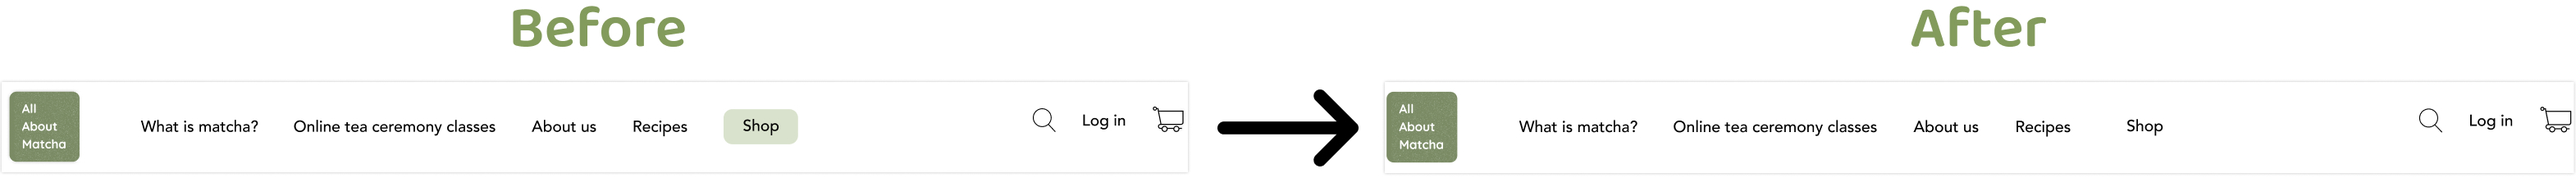
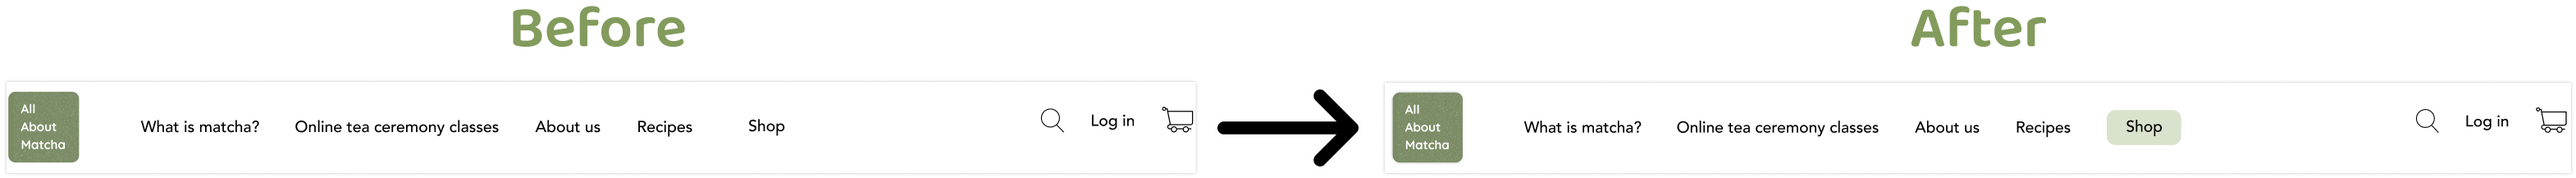
Grammar correction & new page
– Added a new page for new case study
– Corrected grammar mistakes

diff --git a/all-about-matcha.html b/all-about-matcha.html
@@ -70,7 +70,7 @@
 
             <div>
                 <li>Design a hi-fidelity, responsive e-commerce website with virtual tea ceremony class bookings.</li>
-                <li>Design a logo and establish brand identify for the website.</li>
+                <li>Design a logo and establish brand identity for the website.</li>
             </div>
 
             <div class="objectives">
@@ -86,7 +86,7 @@
             </div>
 
             <p>Challenges</p>
-            <li>Majority of people have no idea what to bring to Japanese Tea Ceremony, or what it's all about.</li>
+            <li>The majority of people have no idea what to bring to a Japanese Tea Ceremony, or what it's all about.</li>
             <li>Japanese Tea Ceremony sounds too intimidating and has strict manners.</li>
 
 
@@ -140,10 +140,10 @@
         seek out Japanese Tea Ceremony as a cultural experience when they were in Japan or if they had the chance.
         However, a few participants (those who have lived in Japan before) said they would like to learn about and
         get better at it.
-        I decided to target those who would seek it out when they get the chance, since they represent the majority
+        I decided to target those who would seek it out when given the chance, since they represent the majority
         of potential users in the US.<br><br>
 
-        Here are the major needs/pain points I got from the user interviews.
+        Here are the major needs/pain points I got from the user interviews:
 
         <img class="mirror-content2" src="matcha-img/interview summary.jpg" alt="Interview summary">
 
@@ -169,7 +169,7 @@
 
         <p>Persona</p>
 
-        To empathize with the users and remember what their needs are, I created a persona that
+        To empathize with the users and remember their needs, I created a persona that
         represents a core user. At first, I was thinking that my target users are people who appreciate
         attending Japanese Tea Ceremony and drinking matcha as it is. However, I learned through my research
         that liking matcha doesn’t mean they would attend a class to get better at making matcha, but to learn
@@ -182,10 +182,9 @@
 
         After defining my persona, I created a user flow to visualize the paths that users would take to book a
         tea ceremony class.
-        I was able to empathize with the users and also define what I should include and emphasize on the
+        I was able to empathize with the users and define what to include and emphasize on the
         website.
-        That way, I can understand how I can make it so that users will be able to complete a task without any
-        frustrations.
+        With this understanding, I can design the website with specific user tasks in mind.
 
         <img class="mirror-content2" src="matcha-img/User flow.jpg" alt="User Flow">
 
@@ -202,13 +201,22 @@
 
     <div class="content mirror-body">
 
+        <p>Sketches</p>
+        I started by sketching ideas of what I wanted to include. I made sure to include all the important
+        information about matcha and Japanese Tea ceremony. From my research, I learned that
+        people tend to associate matcha with only desserts or drinks, so I included other information that users
+        can read to learn about other aspects of matcha.
+        I also focused on having two things on the website: matcha e-commerce and booking online Japanese Tea Ceremony
+        classes, since this is what the business does.
+
+
+        <img class="mirror-content2" src="matcha-img/Sketches.jpg" alt="Sketches three versions">
+
         <p>Mid-Fidelity Wireframes</p>
-        I started making low-fidelity wireframes with a lot of ideas of what I wanted to include. I
-        focused on having two things on the website: matcha e-commerce and booking online Japanese Tea Ceremony
-        classes, since this is what the business does. I learned through my research that people don’t always
-        associate matcha as a drink, and they don’t know much about Japanese Tea Ceremony. I
-        wanted to also include information about matcha and Japanese Tea Ceremony so that the users can learn
-        about them.
+        I started to work on wireframes based on the sketches, but I realized the website is overloaded with too much
+        information about matcha. I wanted to put everything on one page, but the website became confusing.
+        I removed the unnecessary elements from the main page, to make sure that users don't get lost.
+
 
         <a href=#img-wireframes class="lightbox-link">
             <img class="mirror-content2" src="matcha-img/Wireflows.jpg" alt="Mirror, low-fi wireframes">
@@ -217,14 +225,14 @@
         <a href="#!" class="lightbox" id="img-wireframes">
             <span style="background-image: url('matcha-img/Wireflows.jpg')"></span>
         </a>
-        I had a lot of different pieces of information at first that made the main page look cluttered.
-        I realized that the main page was losing the focus of what it was telling the users.
+        I still had a lot of different pieces of information at first that made the main page look cluttered.
+        I realized that the main page was losing its focus of what it was telling the users.
         I iterated on this several times and was able to streamline it.
 
         <img class="mirror-content2" src="matcha-img/Wireframes main.jpg" alt="Wireframes main page 3 iterations">
         I first had two containers for private and group pages.
-        However, I realized those two are almost the same except price and a few other information, so I combined them
-        into just one section.
+        However, I realized those two are almost the same except for the price and a few other things, so I combined them
+        into one section.
         <img class="mirror-content2" src="matcha-img/Wireframes iteration class.jpg"
             alt="Wireframes class overview page 2 iterations">
 
@@ -235,10 +243,10 @@
         looked text-heavy.
         At first, I tried to leave all the text since I thought it's important for the users to know what matcha is, but
         I realized people wouldn't care and just skip the reading part if they are not interested. At the end, I made
-        the text much shorter and gave the users options to read more if they are interested.
+        the text much shorter and gave the users the option to read more if they are interested.
         I also tried hard not to make the website look too sophisticated since Japanese Tea Ceremony itself is already
-        too sophisticated to scare people away sometimes. To achieve that, I used friendly and soft colors rather than
-        black, which a lot of matcha businesses do. Yet the images leave the hint of sophistication which shows the
+        sophisticated enough to sometimes scare people away. To achieve this, I used soft and friendly colors rather than
+        black, which a lot of matcha businesses do. Still, the images leave the hint of sophistication which shows the
         beauty of Japanese Tea Ceremony.
 
 
@@ -267,10 +275,9 @@
             href="https://www.figma.com/proto/y0gOSsfTJKw3IbhAWIWNIo/Matcha-hi-fi-design?page-id=0%3A1&node-id=143%3A348"
             target="_blank">View Prototype</a><br><br>
         I conducted usability tests to identify any frustrations/confusion users might have during each interaction, and
-        if it inhibits users from performing certain tasks.
-        I recruited 3 individuals aged 24-28 who like matcha for the zoom usability test. I also conducted a usability
-        test using Maze, which I
-        tested with 10 individuals.
+        whether it inhibits users from performing certain tasks.
+        I recruited 3 individuals aged 24-28 who like matcha for the Zoom usability test. I also conducted a usability
+        test using Maze, which I tested with 10 individuals.
 
 
 
@@ -289,24 +296,22 @@
 
         <p>Priority Revision</p>
         After analyzing what is making users frustrated or confused, I made revisions based on the
-        solutions/improvements on affinity map.
+        solutions/improvements on the affinity map.
         <br>
 
 
         <div>
 
-            <div class="mirror-content">I made the 'shop' text more visible than other text in the navigation bar.</div>
+            <div class="mirror-content">I made the 'shop' text more visible than the other text in the navigation bar.</div>
             <img class="mirror-content2" src="matcha-img/Priority revision nav bar.jpg"
                 alt="Revisions I made based on the user test, nav bar">
         </div>
 
         <div>
-            <div class="mirror-content">I removed the description text and included 'What is matcha?' text so that
-                whoever
-                is interested can click and read more.
-                I used icons to differentiate group and private classes. The text is simple and short, yet it has all
-                the
-                information about the classes that are different from each other.</div>
+            <div class="mirror-content">I removed the description text and included 'What is Japanese Tea Ceremony?' text so that
+                whoever is interested can click and read more.
+                I added icons to differentiate group and private classes. The text is simple and short, yet it has all
+                the information about the classes that are different from each other.</div>
             <img class="mirror-content2" src="matcha-img/Priority revision class.jpg"
                 alt="Revisions I made based on the user test, class overview page">
         </div>
@@ -314,7 +319,7 @@
         <div>
 
             <div class="mirror-content">
-                I made a container for the booking summary and removed unnecessary text for more simplicity.
+                I made a container for the booking summary and removed unnecessary text for simplicity. 
                 For the starter kit, I included a photo of the starter kit so the users can visualize what they are
                 ordering.
             </div>
@@ -335,10 +340,9 @@
     </div>
 
     <div class="content mirror-body">
-        <li>Assumptions could be correct or very wrong–it's important to make sure wether it's correct or not through
-            research.</li>
-        <li>Having visuals, such as icons and images, make a big difference when the users navigate through the website.
-            It also helps the users expect what they are without reading the text.</li>
+        <li>Assumptions could be correct or very wrong–it's important to verify them with research.</li>
+        <li>Having visuals, such as icons and images, make a big difference in helping users navigate the website.
+            Icons and images also help the users expect what things mean without reading the text.</li>
         <li>Having a lot of information doesn't always mean it's helping the users–it could result in making the users
             confused.</li>
     </div>

diff --git a/Brightwheel.html b/Brightwheel.html
@@ -59,7 +59,7 @@
 
             <div>
                 <li>Design a messaging feature that enables parents to communicate with other parents in the app.</li>
-                <li>Discover what privacy concerns parents have and design the app accordingly so t hat it is safe to
+                <li>Discover what privacy concerns parents have and design the app accordingly so that it is safe to
                     use.
                 </li>
             </div>
@@ -109,7 +109,7 @@
         All of the participants were not very concerned about their privacy since their daycare is small. However, I can
         see some parents will be concerned about their privacy, so I decided to have the options for parents to hide
         their information in the app. Other than that, the majority of parents seemed that they want to get to know
-        other children and preants.
+        other children and parents.
 
         <br><br>
 
@@ -141,7 +141,7 @@
         Through my research, I was able to learn a lot about the users, so I decided to summarize and make it into one
         persona to remember throughout the process. It was really important for me to carefully check the interview
         summary because I'm not a mom, so it was a little bit hard to emphasize and understand them.
-        <img class="mirror-content2" src="matcha-img/Persona.jpg" alt="Persona, Anna Taylor">
+        <img class="mirror-content2" src="Brightwheel/Persona.jpg" alt="Persona, Anna Taylor">
 
 
         <p>User Flow</p>
@@ -153,7 +153,7 @@
         That way, I can understand how I can make it so that users will be able to complete a task without any
         frustrations.
 
-        <img class="mirror-content2" src="matcha-img/User flow.jpg" alt="User Flow">
+        <img class="mirror-content2" src="Brightwheel/User flow.jpg" alt="User Flow">
 
 
     </div>
@@ -177,11 +177,11 @@
         about them.
 
         <a href=#img-wireframes class="lightbox-link">
-            <img class="mirror-content2" src="matcha-img/Wireflows.png" alt="Mirror, low-fi wireframes">
+            <img class="mirror-content2" src="matcha-img/Wireflows.jpg" alt="Mirror, low-fi wireframes">
         </a>
 
         <a href="#!" class="lightbox" id="img-wireframes">
-            <span style="background-image: url('matcha-img/Wireflows.png')"></span>
+            <span style="background-image: url('matcha-img/Wireflows.jpg')"></span>
         </a>
         I had a lot of different pieces of information at first that made the main page look cluttered.
         I realized that the main page was losing the focus of what it was telling the users.
@@ -200,9 +200,11 @@
         looked text-heavy.
         At first, I tried to leave all the text since I thought it's important for the users to know what matcha is. I
         was able to make is simpler at the end, and it looks eye-catching visually compared to the first iteration.
-        <img class="mirror-content2" src="matcha-img/hi-fi iterations.jpg" alt="hi-fi UI main page iteration">
+        <img class="mirror-content2" src="Brightwheel/Sending a request.jpg" alt="hi-fi UI sending a message request flow">
 
-        <img class="mirror-content2" src="matcha-img/hi-fi frames.jpg" alt="hi-fi UI">
+        <img class="mirror-content2" src="Brightwheel/Privacy setting.jpg" alt="hi-fi UI privacy settings">
+
+        <img class="mirror-content2" src="Brightwheel/Approving a request.jpg" alt="hi-fi UI approving a message request flow">
     </div>
 
 
@@ -223,7 +225,7 @@
 
         <p>Prototype and Usability Test</p>
         <a class="link"
-            href="https://www.figma.com/proto/y0gOSsfTJKw3IbhAWIWNIo/Matcha-hi-fi-design?page-id=0%3A1&node-id=143%3A348"
+            href="https://www.figma.com/proto/kC1vyScK9X1n2jBAD8PLZA/Brightwheel-Hi-fi-design?page-id=0%3A1&node-id=27%3A96&viewport=241%2C48%2C0.3&scaling=scale-down&starting-point-node-id=27%3A96&show-proto-sidebar=1"
             target="_blank">View Prototype</a><br><br>
         I conducted usability tests to identify any frustrations/confusion users might have during each interaction, and
         if it inhibits users from performing certain tasks.
@@ -243,7 +245,7 @@
         I mainly got feedback about the tea ceremony classes and booking process, so I re-iterated on it.
         I searched for a lot of inspiration so that my design can deliver a better user experience.
 
-        <img class="mirror-content2" src="matcha-img/Affinity Map.jpg" alt="Affinity Map">
+        <img class="mirror-content2" src="Brightwheel/Affinity map.jpg" alt="Affinity Map">
 
 
         <p>Priority Revision</p>
@@ -258,7 +260,7 @@
         <div>
 
             <div class="mirror-content">I made the 'shop' text more visible than other text in the navigation bar.</div>
-            <img class="mirror-content2" src="matcha-img/Priority revision nav bar.jpg"
+            <img class="mirror-content2" src="Brightwheel/Priority revision profile.jpg"
                 alt="Revisions I made based on the user test, nav bar">
         </div>
 
@@ -269,7 +271,7 @@
                 I used icons to differentiate group and private classes. The text is simple and short, yet it has all
                 the
                 information about the classes that are different from each other.</div>
-            <img class="mirror-content2" src="matcha-img/Priority revision class.jpg"
+            <img class="mirror-content2" src="Brightwheel/Priority revision settings.jpg"
                 alt="Revisions I made based on the user test, class overview page">
         </div>
 
@@ -280,7 +282,7 @@
                 For the starter kit, I included a photo of the starter kit so the users can visualize what they are
                 ordering.
             </div>
-            <img class="mirror-content2" src="matcha-img/Priority revision checkout.jpg"
+            <img class="mirror-content2" src="Brightwheel/Priority revision message.jpg"
                 alt="Revisions I made based on the user test, check out">
         </div>
 
